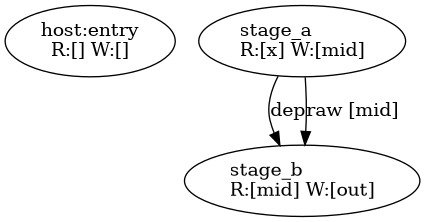
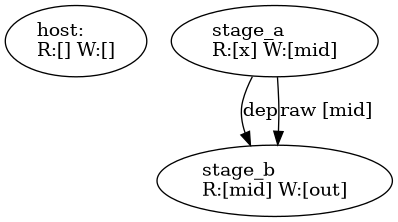
Revert "graphs: region labels name their aliases (x/a)"
This reverts commit bf087c7aeeef147e985c1cb7b99b415bd465092b.

diff --git a/crates/symir/src/interp.rs b/crates/symir/src/interp.rs
@@ -237,7 +237,7 @@ impl<'a> Interp<'a> {
                 Dir::Scalar => self.fresh_named(format!("param.{}", param.name)),
                 _ => SymVal::Region(self.fresh_region(&param.name)),
             };
-            self.bind(&param.name, value);
+            let _ = self.env.insert(param.name.clone(), value);
         }
         // Module-level constants: `NAME = pl.dynamic("NAME")` becomes a
         // symbolic dimension constant named by its string argument.
@@ -262,26 +262,8 @@ impl<'a> Interp<'a> {
     fn fresh_region(&mut self, name: &str) -> RegionId {
         let id = self.region_counter;
         self.region_counter += 1;
-        self.dag.regions.push(crate::dag::RegionMeta {
-            name: name.to_owned(),
-            aliases: Vec::new(),
-        });
+        self.dag.regions.push(name.to_owned());
         id
-    }
-
-    /// Binds `name` in the environment, recording region aliases: every
-    /// SSA name a region is reachable under appears in its label, so a
-    /// write through a carried alias (`init_values=(x,)` → `a`) shows as
-    /// `x/a` rather than contradicting the source.
-    fn bind(&mut self, name: &str, value: SymVal) {
-        if let SymVal::Region(region) = &value {
-            if let Some(meta) = self.dag.regions.get_mut(*region) {
-                if meta.name != name && !meta.aliases.iter().any(|a| a == name) {
-                    meta.aliases.push(name.to_owned());
-                }
-            }
-        }
-        let _ = self.env.insert(name.to_owned(), value);
     }
 
     /// A named uninterpreted constant (no arguments).
@@ -388,12 +370,12 @@ impl<'a> Interp<'a> {
     fn bind_targets(&mut self, targets: &[String], value: SymVal) -> Result<(), SymirError> {
         match (targets, &value) {
             ([single], _) => {
-                self.bind(single, value);
+                let _ = self.env.insert(single.clone(), value);
                 Ok(())
             }
             (_, SymVal::Tuple(items)) if targets.len() == items.len() => {
                 for (name, item) in targets.iter().zip(items.iter()) {
-                    self.bind(name, item.clone());
+                    let _ = self.env.insert(name.clone(), item.clone());
                 }
                 Ok(())
             }
@@ -507,7 +489,7 @@ impl<'a> Interp<'a> {
         }
         let init_values = self.init_values(kwargs)?;
         for (name, init) in iter_arg_vars.iter().zip(init_values) {
-            self.bind(name, init);
+            let _ = self.env.insert(name.clone(), init);
         }
 
         let outer_writers = self.frame_writers();
@@ -573,12 +555,7 @@ impl<'a> Interp<'a> {
         if parallel {
             for region in inner_writers.keys() {
                 if inner_readers.contains_key(region) {
-                    let name = self
-                        .dag
-                        .regions
-                        .get(*region)
-                        .map(|m| m.display())
-                        .unwrap_or_default();
+                    let name = self.dag.regions.get(*region).cloned().unwrap_or_default();
                     let mut roles = nodes.iter();
                     if let (Some(first), Some(second)) = (roles.next(), roles.last()) {
                         self.add_edge(*first, *second, EdgeKind::Race, vec![*region]);
@@ -981,7 +958,7 @@ impl<'a> Interp<'a> {
         let saved_env = self.env.clone();
         for (param, arg) in params.iter().zip(payload.iter()) {
             let value = self.eval(arg)?;
-            self.bind(&param.name, value);
+            let _ = self.env.insert(param.name.clone(), value);
         }
         self.exec_block(&body)?;
         // The return expression (if any) is evaluated in the inline scope.

diff --git a/crates/symir/src/dag.rs b/crates/symir/src/dag.rs
@@ -33,30 +33,8 @@ pub struct TaskDag {
     pub constraints: Vec<Constraint>,
     /// Race-shaped findings.
     pub warnings: Vec<Warning>,
-    /// Region metadata, indexed by id.
-    pub regions: Vec<RegionMeta>,
-}
-
-/// One region's naming: the origin (the parameter or allocation that
-/// created it) plus every SSA alias it became reachable under (e.g. a
-/// carried value seeded by `init_values=(x,)`).
-#[derive(Debug, Clone, Serialize)]
-pub struct RegionMeta {
-    /// Name of the creating binding.
-    pub name: String,
-    /// Other names bound to this region, sorted.
-    pub aliases: Vec<String>,
-}
-
-impl RegionMeta {
-    /// The display form: `x` alone, or `x/a` when aliased.
-    pub fn display(&self) -> String {
-        if self.aliases.is_empty() {
-            return self.name.clone();
-        }
-        let joined = self.aliases.join(consts::SEP_ALIAS);
-        format!("{}{}{}", self.name, consts::SEP_ALIAS, joined)
-    }
+    /// Region names, indexed by id.
+    pub regions: Vec<String>,
 }
 
 /// What a node represents.

diff --git a/crates/symir/src/graph.rs b/crates/symir/src/graph.rs
@@ -32,7 +32,10 @@ pub fn build(dag: &TaskDag) -> TaskGraph {
     let mut graph = Graph::new();
     let mut indices = Vec::new();
     for node in &dag.nodes {
-        let header = node.label.clone();
+        let header = match node.kind {
+            crate::dag::NodeKind::Host => consts::GRAPH_KIND_HOST.to_owned(),
+            _ => node.label.clone(),
+        };
         let reads = region_list(dag, &node.reads.iter().copied().collect::<Vec<_>>());
         let writes = region_list(dag, &node.writes.iter().copied().collect::<Vec<_>>());
         let iters = node
@@ -152,7 +155,7 @@ fn region_list(dag: &TaskDag, regions: &[usize]) -> String {
         .map(|r| {
             dag.regions
                 .get(*r)
-                .map(|m| m.display())
+                .cloned()
                 .unwrap_or_else(|| format!("R{r}"))
         })
         .collect::<Vec<_>>()

diff --git a/crates/symir/tests/graph.rs b/crates/symir/tests/graph.rs
@@ -125,18 +125,3 @@ fn consts_backslash_n() -> &'static str {
 fn node_count_with_effects(dot: &str) -> usize {
     dot.split('\n').filter(|l| l.contains("R:[")).count()
 }
-
-/// Observed 2026-10-16: `parallel_carry` shows `W:[x]`, but the source
-/// never writes a variable named `x` — the write flows through the alias
-/// `a` created by `init_values=(x,)`. Region labels must name the aliases
-/// a region is reachable under (`x/a`), or the graph contradicts the
-/// source it was extracted from.
-#[test]
-fn region_labels_show_alias_names() {
-    let dag = extract(PARALLEL_CARRY, None).unwrap();
-    let dot = graph::build(&dag).to_dot(&dag.program);
-    assert!(
-        dot.contains("x/a"),
-        "the write to x flows through the alias a; labels must say so"
-    );
-}

diff --git a/crates/symir/src/consts.rs b/crates/symir/src/consts.rs
@@ -182,8 +182,6 @@ pub const GRAPH_KIND_HOST: &str = "host:";
 pub const BACKSLASH_N: &str = "\\n";
 /// A real newline inside graphviz labels.
 pub const LABEL_NEWLINE: &str = "\n";
-/// Separator between a region's origin name and its aliases.
-pub const SEP_ALIAS: &str = "/";
 /// Guard separator in node labels.
 pub const SEP_GUARD: &str = " && ";
 /// Edge tags.
